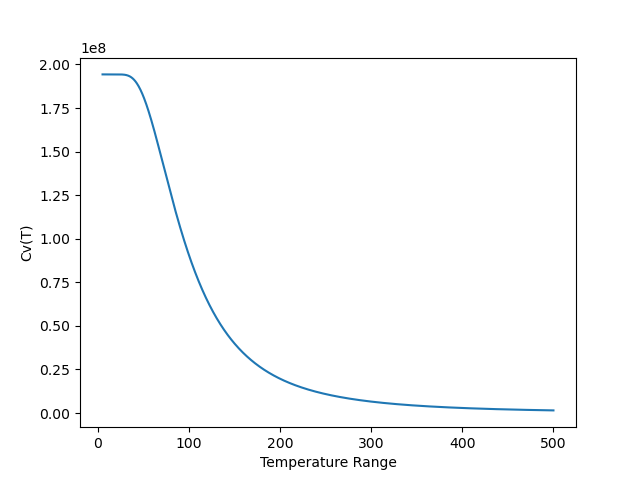
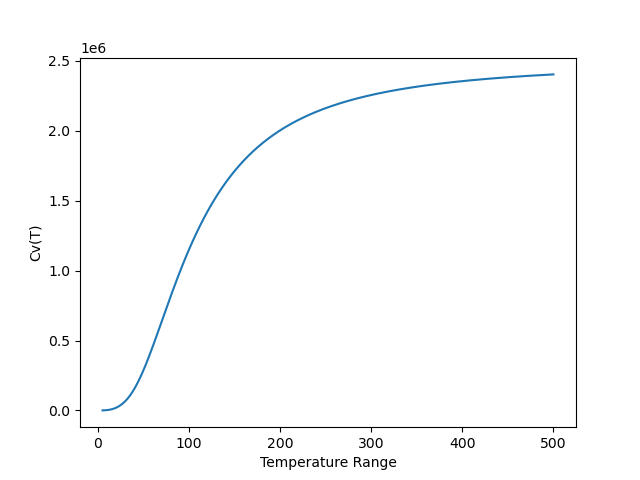
Changes to Q1 and finished Q2

diff --git a/ps-4/Newman_Exercise_5.10.py b/ps-4/Newman_Exercise_5.10.py
@@ -1,0 +1,25 @@
+import numpy as np
+from Newman_Exercise_5_9 import gaussxw, gausswab 
+from matplotlib import pyplot as plt
+
+mass = 1 
+N = 20
+linear = np.sqrt(8 * mass)
+amp_range = np.linspace(0.1,2,100) # Not starting at zero to avoid division by zero error
+
+def potential_function(x,a):
+    return 1/np.sqrt(a**4-x**4)
+
+def T(N,a):
+    x,w = gausswab(N,0,a)
+    s = 0 
+    for k in range(N):
+        s += w[k] * potential_function(x[k], a)
+    return s*linear
+
+res_range = [T(N,a) for a in amp_range]
+
+plt.plot(amp_range, res_range)
+plt.xlabel("Amplitude [m]")
+plt.ylabel("Period [s]")
+plt.savefig('Exercise_5.10.png')

diff --git a/ps-4/Newman_Exercise_5_9.py b/ps-4/Newman_Exercise_5_9.py
@@ -43,7 +43,7 @@ def cv(T):
     k = 1.38e-23 # J*K^-1
     N=50
 
-    linear = 9 * V * rho * k # This is the linear part of Cv
+    linear = 9 * V * rho * k * (T/debye)**3 # This is the linear part of Cv
     x,w = gausswab(N,0,debye/T) # Getting the weights and x values (to evaluate the function at point x and multiply by the weights
     s=0
     for k in range(N): # summation/integral
